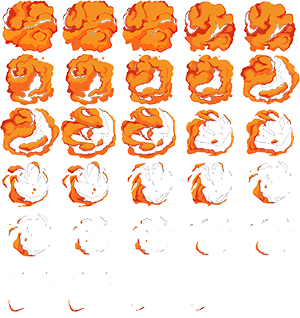
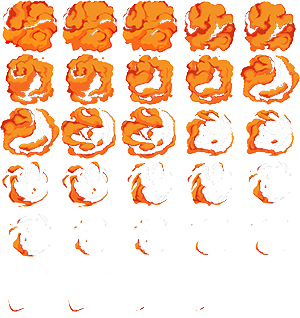
new bullets, new animations to mage

diff --git a/js/bulletsGen.js b/js/bulletsGen.js
@@ -7,7 +7,7 @@ function bulletsGen() {
     bulletsKnife = game.add.group();
     bulletsKnife.enableBody = true;
 
-    bulletsKnife.createMultiple(50, 'bullet');
+    bulletsKnife.createMultiple(50, 'blueBullet');
     bulletsKnife.setAll('checkWorldBounds', true);
     bulletsKnife.setAll('outOfBoundsKill', true);
     game.physics.enable(bulletsKnife, Phaser.Physics.ARCADE);
@@ -21,6 +21,8 @@ function fire() {
         mage.animations.play('atack',10);
         nextFire = game.time.now + fireRate;
         bulletKnife = bulletsKnife.getFirstDead();
+        var animBullet = bulletKnife.animations.add('animLava',[2,3,4,5,6,7,8,9,10,11,12,13,14,15,16,18,19,20,21,23,24,25,26,27,28,29,30]);
+        animBullet.play(18, true);
         sounds.knife.play();
         bulletKnife.reset(mage.x + 5, mage.y + 12);
         bulletKnife.rotation = Math.atan2(game.input.mousePointer.y - bulletKnife.y, game.input.mousePointer.x - bulletKnife.x);

diff --git a/js/mageMove.js b/js/mageMove.js
@@ -14,6 +14,7 @@ function mageMove() {
 
     /* Movimentacao mage */
     mage.body.velocity.x = 0;
+    if(mageHp > 0 ){
     if (cursors.left.isDown || leftButton.isDown) {
         mage.scale.setTo(-1, 1);
         mage.body.velocity.x = -150;
@@ -49,12 +50,12 @@ function mageMove() {
         })
 
     } else {
-        mage.animations.play('stop');
     }
 
     if(game.physics.arcade.collide(mage, plataformas)){
         mage.body.gravity.y = 1500; //gravidade
     }else{
         mage.body.gravity.y = 300; //gravidade
+    }
     }
 }

diff --git a/js/preloadState.js b/js/preloadState.js
@@ -34,6 +34,7 @@ function precarregarPreload() {
     //bullets
     game.load.spritesheet('bossBullet', 'assets/bullets/bossBullet.png', 60, 53, 30);
     game.load.image('bullet', 'assets/bullets/knife.png');
+    game.load.spritesheet('blueBullet', 'assets/bullets/blueBullet.png', 40, 40, 30);
 
     //hpBars
     game.load.spritesheet('hpBar', 'assets/hpBars/hpBar.png', 211, 70, 5);

diff --git a/js/mageGen.js b/js/mageGen.js
@@ -50,8 +50,12 @@ function mageHpBarChange() {
 
 function mageShoted(dano) {
     mageHp -= dano;
+    if(mageHp > 1 ){
+        mage.animations.play('hited', 10, false);
+    }
     if (mageHp == 0) {
-        gameOver();
+        mage.animations.play('die', 5, false)
+        game.time.events.add(1500,function(){gameOver()});
     }
     sounds.atacked.play();
 }

diff --git a/js/startState.js b/js/startState.js
@@ -17,7 +17,7 @@ function criarStart()
 }
 
 function start(){
-    game.state.start('gameState4');
+    game.state.start('gameState1');
     setDificulty1();
     mageHp = 5;
 }
